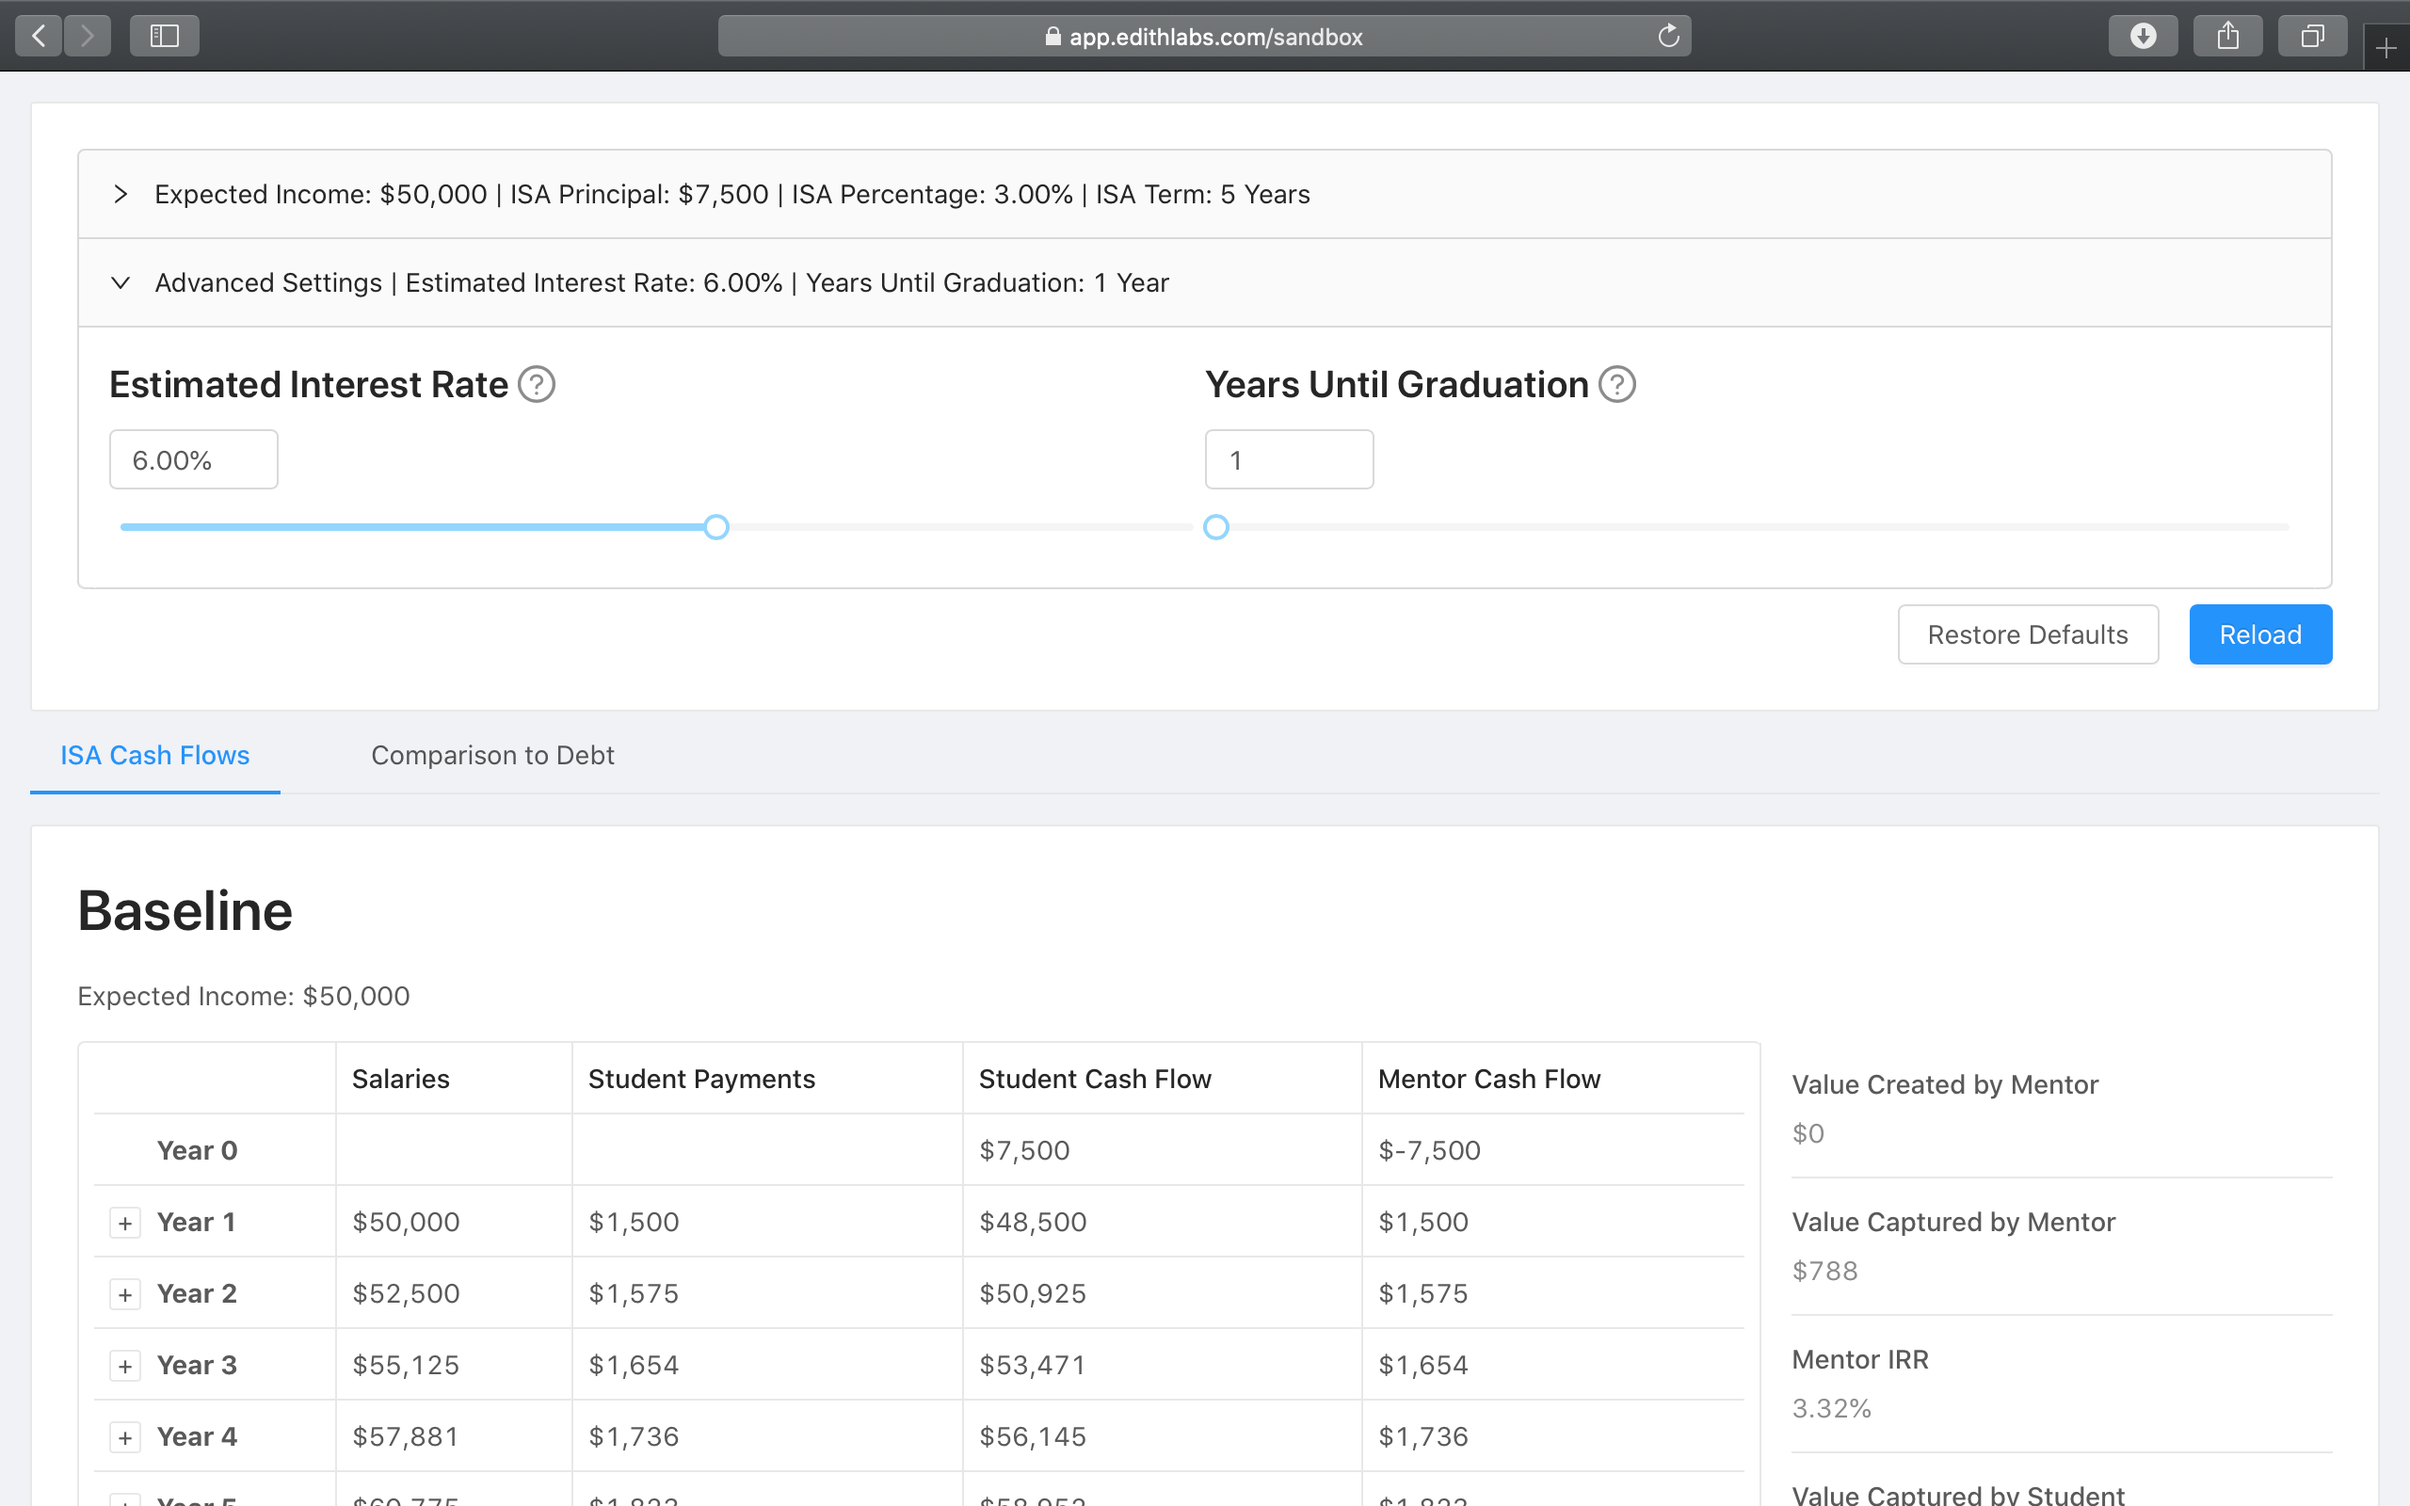
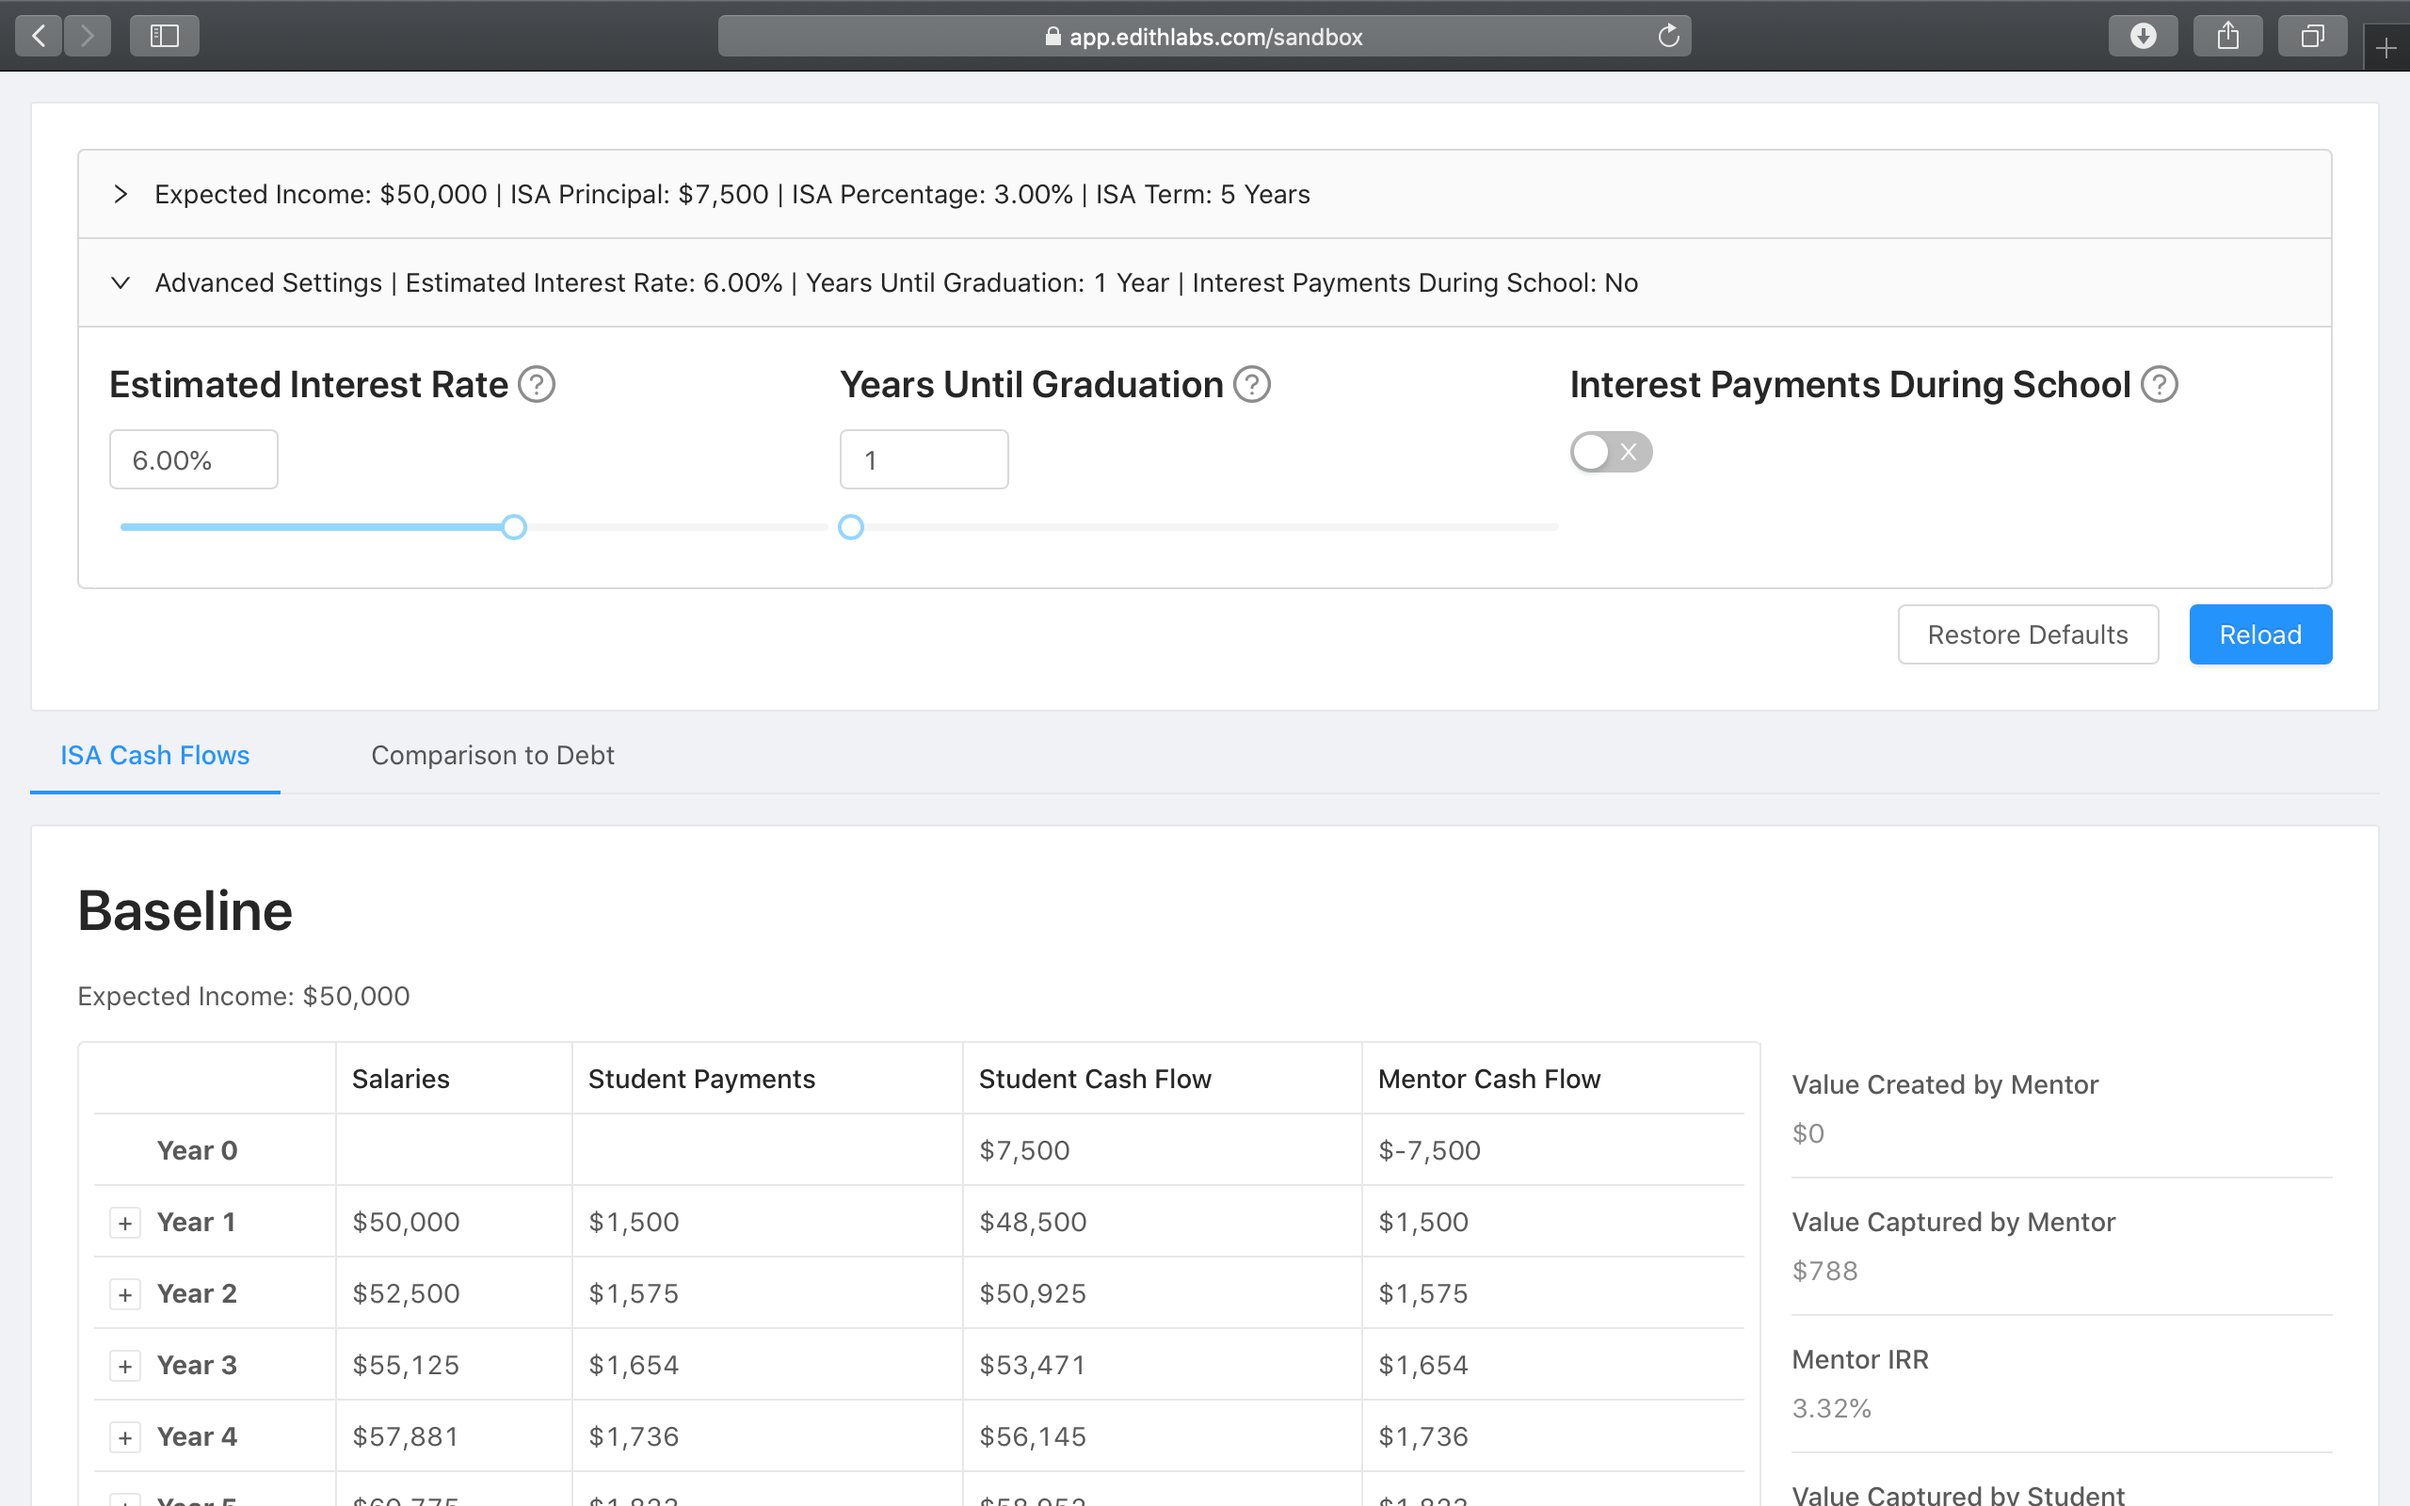
update advanced setting screenshot

Changed region(s): [[0.3438, 0.25, 0.9062, 0.3125], [0.2188, 0.3438, 0.3125, 0.375]]

diff --git a/content/blog/edith-isa-sandbox/index.md b/content/blog/edith-isa-sandbox/index.md
@@ -1,6 +1,6 @@
 ---
 title: Edith's ISA Sandbox
-date: '2020-03-11'
+date: '2020-03-13'
 excerpt: Showcasing our tool to evaluate ISAs, determine the value that could potentially be created for a student, and compare an ISA to student loans. Check out the post for a walkthrough of the tool, what it means, and how we envision growing the tool in the future.
 author: Kevin Arifin
 ---
